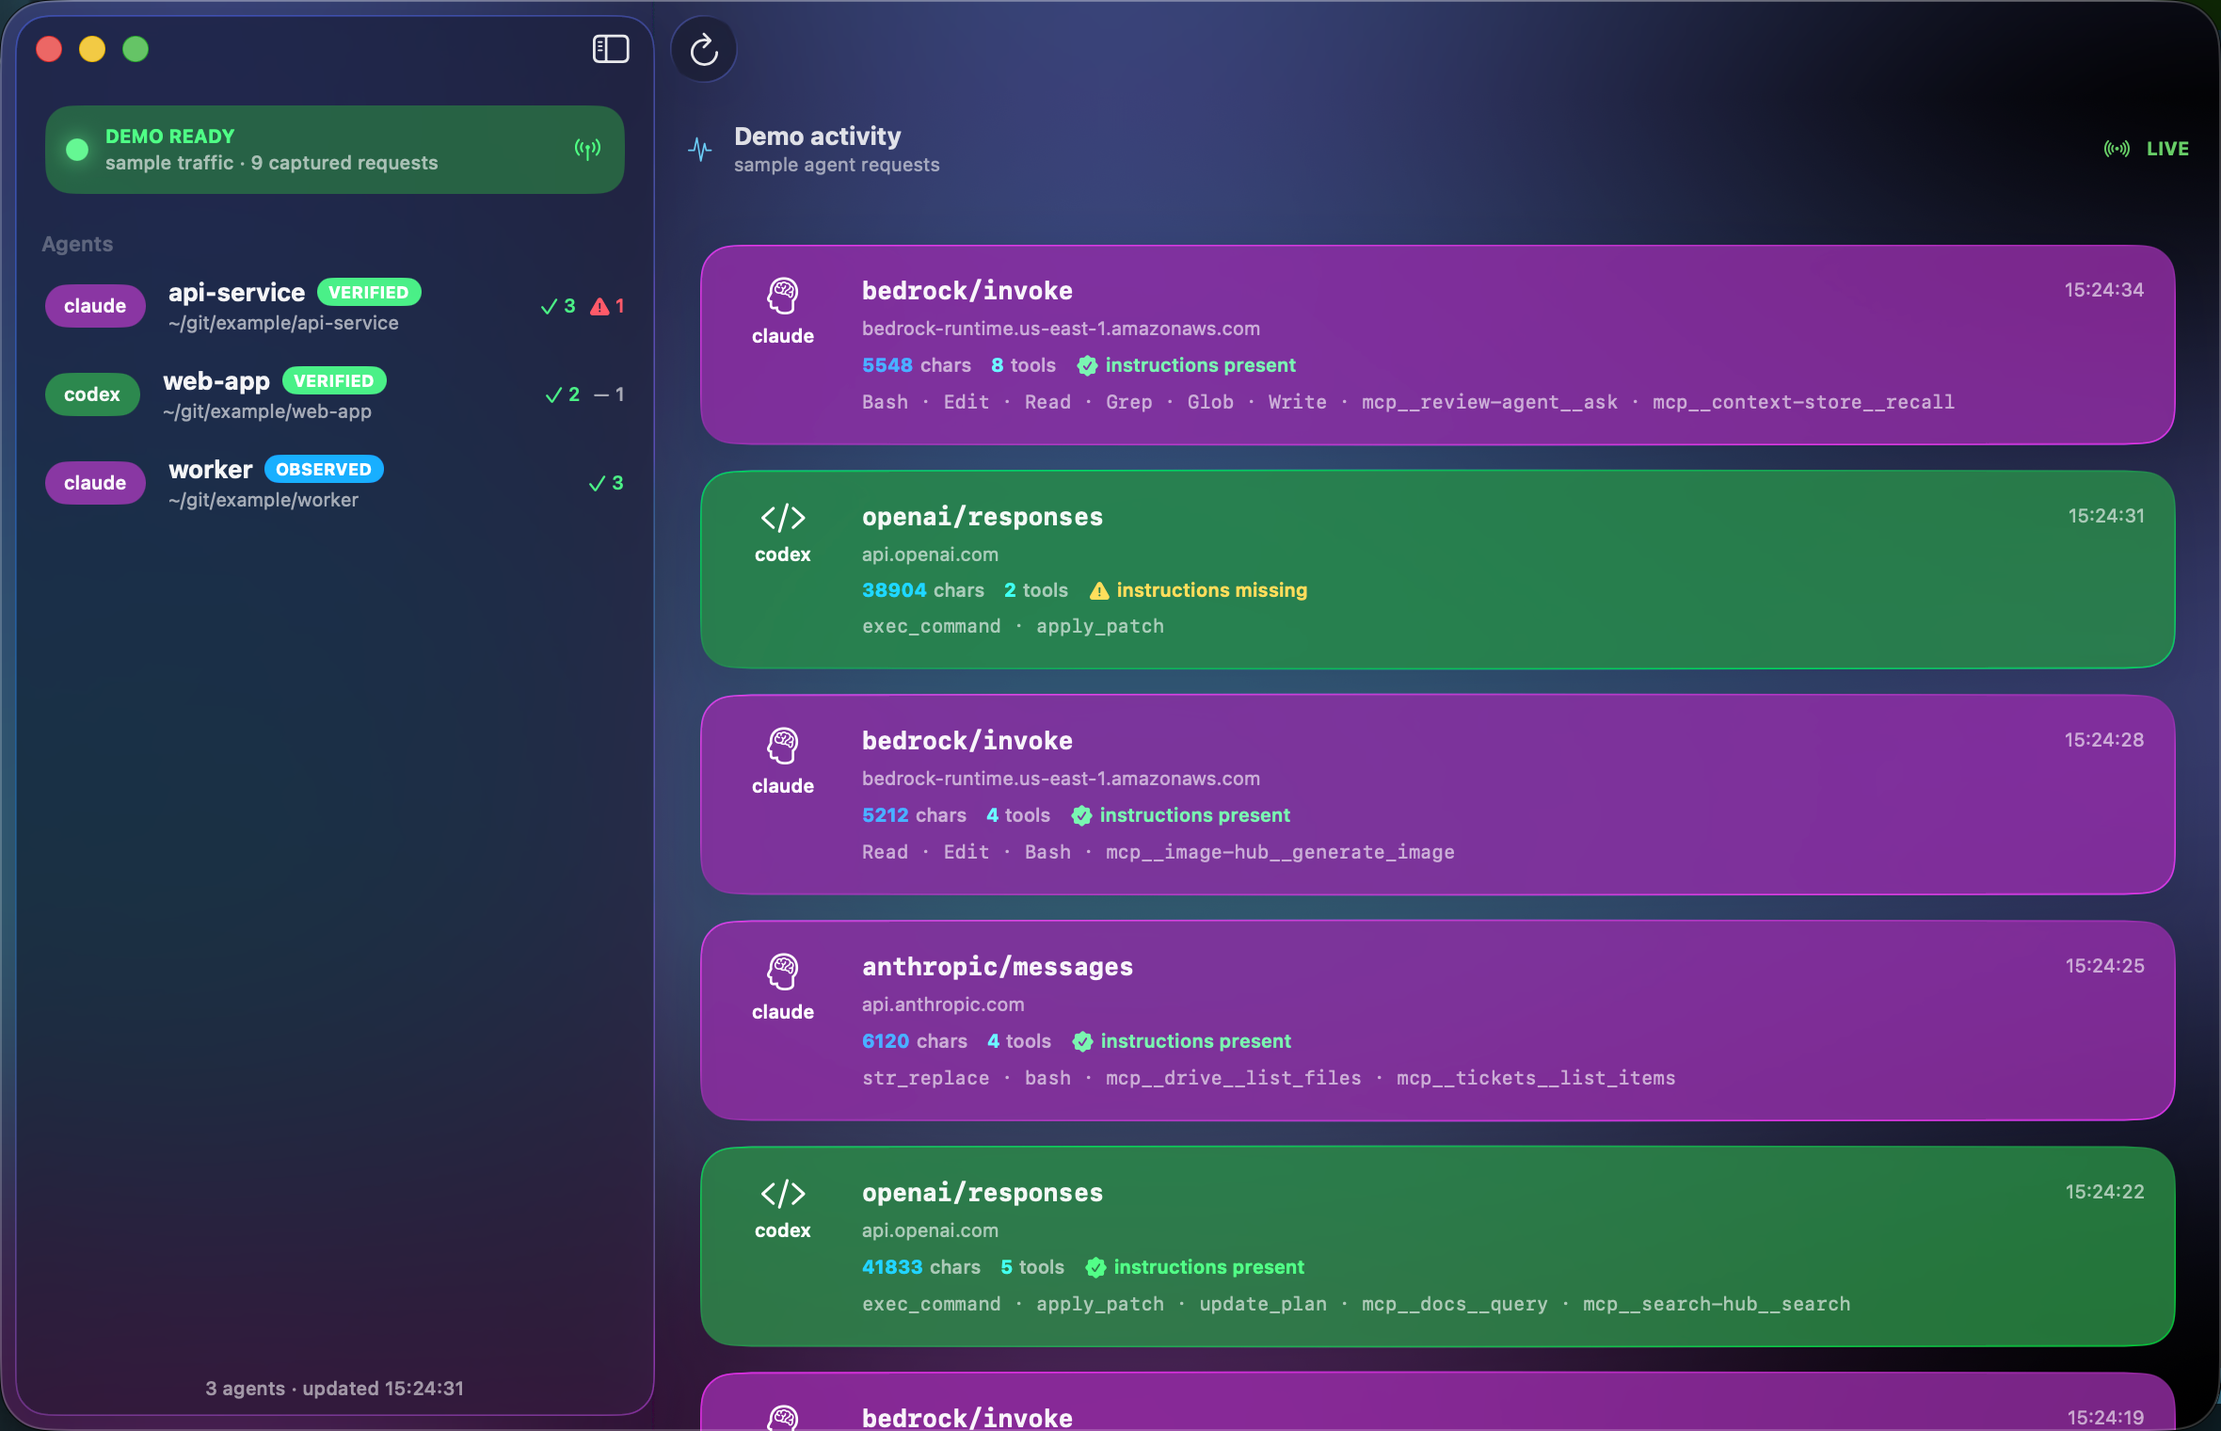
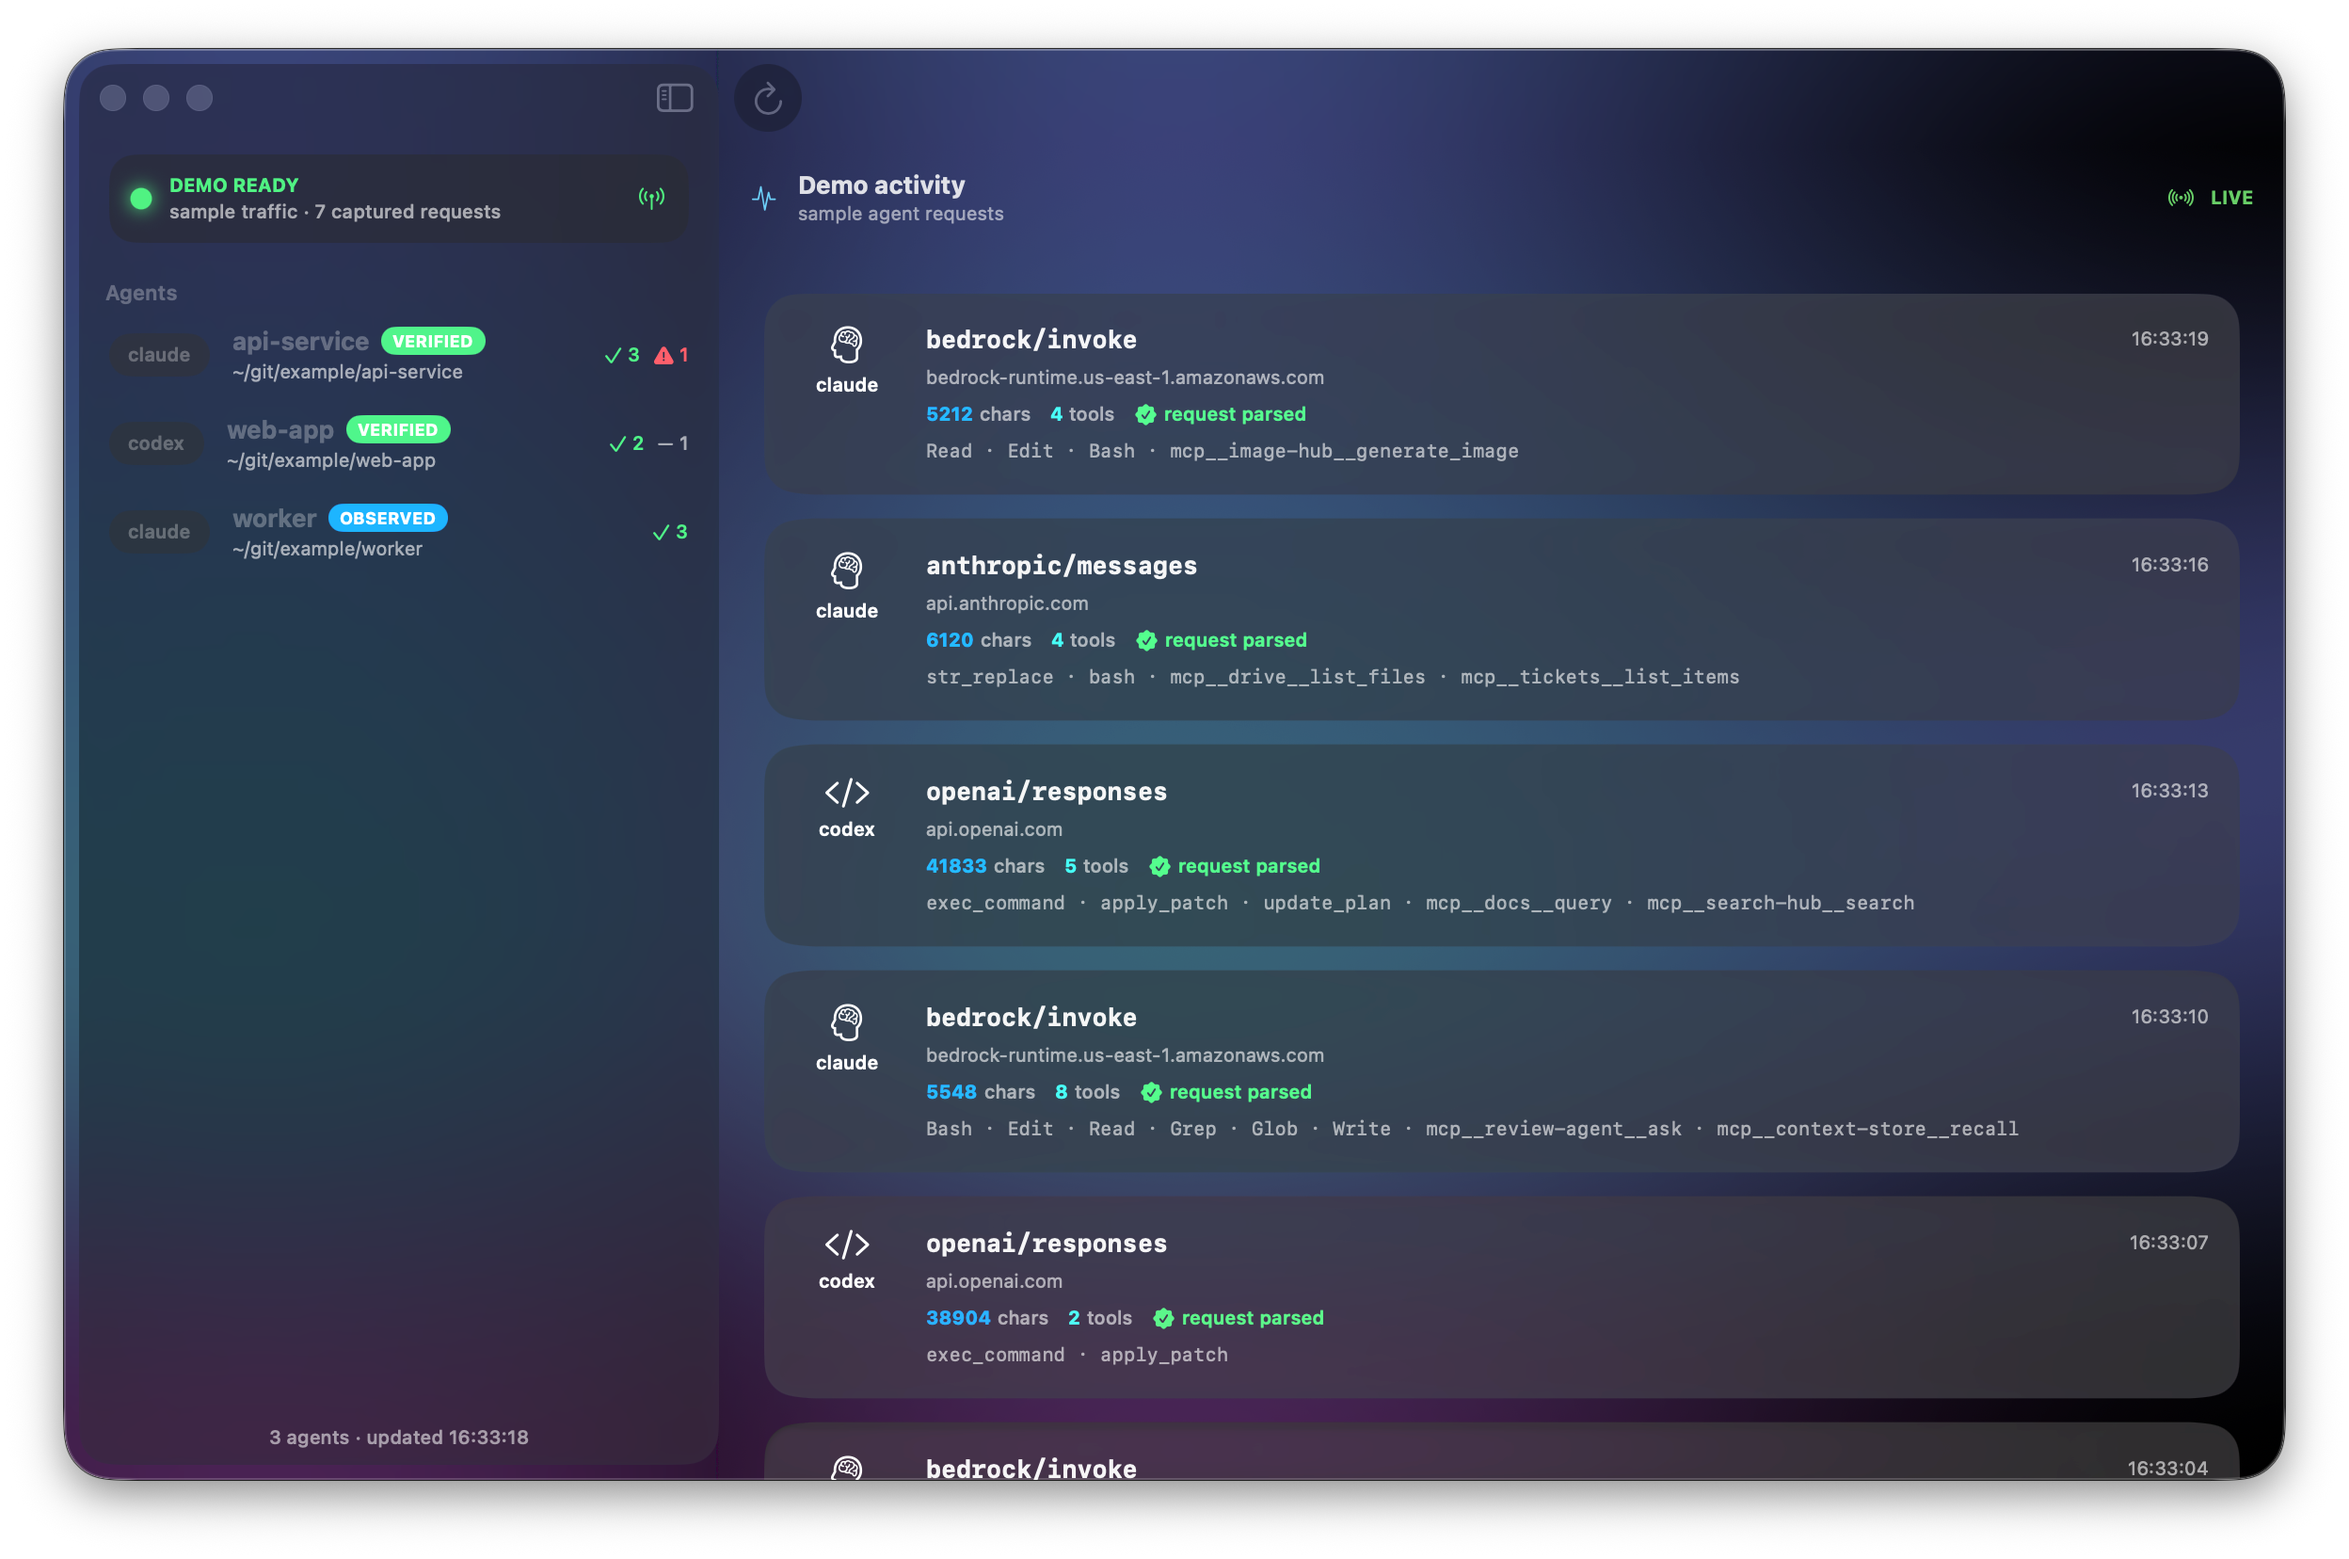
phase 7: refresh launch screenshot
[SDP-1] agent-observatory-hn-productionization

diff --git a/backend/internal/fact/conflict_e2e_test.go b/backend/internal/fact/conflict_e2e_test.go
@@ -13,7 +13,7 @@ func TestConflictE2E(t *testing.T) {
 	instructions := FactKey{Kind: InstructionText, Runtime: "claude", Name: "AGENTS.md global instructions"}
 	ep := Epoch{SessionID: "s1"}
 
-	// Transcript recorded the instructions present; wire proves them absent on the wire.
+	// Transcript recorded required instructions; wire proves they were absent on the wire.
 	// (The regression class: the CLI's own record disagrees with what left the box.)
 	results := Merge(
 		[]Expectation{{Key: instructions, Required: true, Origin: "global"}},
